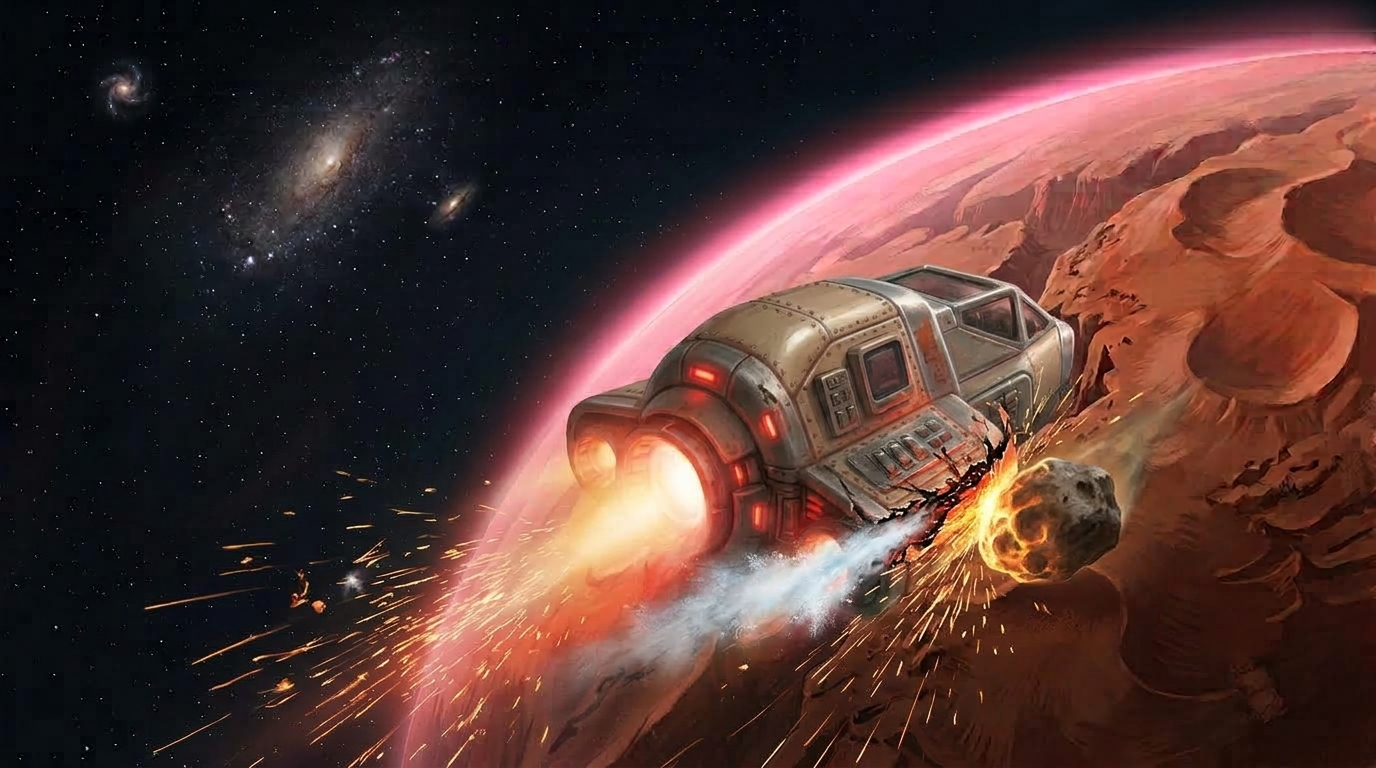
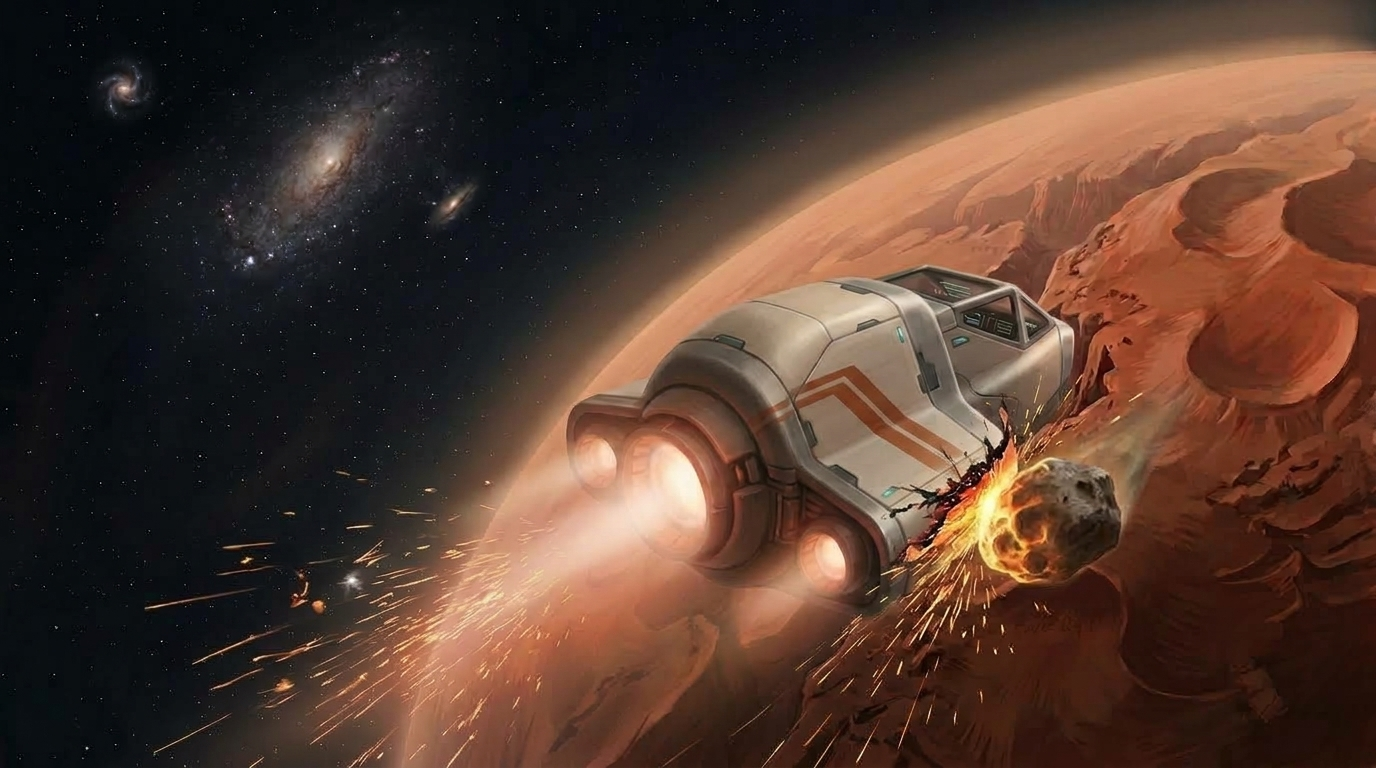
Neue Bilder im Stil von 2073 und Danach-Bilder eingebunden
- Umgestylte Intro-, Raum- und Outro-Bilder
- Danach-Bilder für Flur und Crew-Quartier, Dateinamen in rooms.csv angepasst
- Klickflächen von Spind, Wandfach, Tür und Kabelpanel vergrößert, damit
  aufschwingende Teile im Danach-Bild nicht abgeschnitten werden
- Test: alle Raumbilder existieren mit exakt diesem Dateinamen
- Bildname "Outro out of oxygen.jpeg" auch in Git klein geschrieben

Changed region(s): [[0.1875, 0.0, 1.0, 1.0], [0.8125, 0.6875, 0.8438, 0.7188], [0.7812, 0.7188, 0.8125, 0.75]]

diff --git a/tests/test_logic.py b/tests/test_logic.py
@@ -217,3 +217,11 @@ def test_hotspot_changes_follow_player_state(world):
     changed = {h["id"] for h in world["hotspots"] if logic.is_hotspot_changed(world, player, h)}
     assert changed == {"wandfach", "spind", "tuer_crew"}   # Schraubenzieher liegt noch da
     assert not logic.is_hotspot_changed(world, player, spots["fenster"])
+
+
+def test_room_images_exist_with_exact_names(world):
+    """Dateinamen müssen exakt stimmen – auch Groß-/Kleinschreibung (der Mac verzeiht das, Linux nicht)."""
+    files = {path.name for path in (db.DATA_DIR.parent / "images").iterdir()}
+    for room in world["rooms"].values():
+        for key in ("image", "image_after"):
+            assert not room[key] or room[key] in files, f"{room['id']}: {room[key]} fehlt in images/"

diff --git a/PROMPTS.md b/PROMPTS.md
@@ -8,17 +8,31 @@ Die Prompts sind auf Englisch, weil Bildgeneratoren damit zuverlässiger arbeite
 
 ## So gehst du vor
 
-1. Öffne in Gemini einen neuen Chat und **lade das Originalbild hoch** (z. B. `images/Flur.jpeg`).
+1. Öffne in Gemini **für jedes Bild einen neuen Chat** und **lade das Originalbild hoch** (z. B. `images/Intro 2.jpeg`).
+   Kein „Same style as the previous image“: Gemini übernimmt dabei sonst auch Inhalte aus dem vorherigen Bild,
+   z. B. ein zweites Raumschiff. Der einheitliche Stil kommt allein vom gleichen Umstyle-Prompt.
 2. Schreib den **Umstyle-Prompt** unten und hänge den Teil für dieses Bild an.
-3. Speichere das Ergebnis **unter genau demselben Dateinamen** in `images/` und ersetze damit das alte Bild.
-4. Mach alle Bilder im selben Chat. Ab dem zweiten Bild schreibst du dazu: *„Same style as the previous image.“*
+3. **Vergleiche das Ergebnis mit dem Original:** gleiche Anzahl Objekte, gleiche Positionen?
+   Wenn nicht, im selben Chat nachschieben: *„Wrong: you added/moved objects. Use only my uploaded image as the base. Keep exactly the same objects – nothing added, nothing removed – and only change the style.“*
+4. Speichere das Ergebnis **unter genau demselben Dateinamen** in `images/` und ersetze damit das alte Bild.
 5. Schick mir danach die neuen Raumbilder (Flur, Crew Cabin, Laboratory). Ich prüfe, ob die Klickflächen noch sitzen.
 
-Verschiebt Gemini Objekte, hilft der Zusatz: *„Do not move, add or remove any objects.“*
+## Das Schiff muss überall gleich aussehen
+
+Das Schiff kommt in fünf Bildern vor: Intro 2, Intro 3, Outro 1, Outro 2 und Outro saved.
+Damit es überall identisch ist:
+
+1. **Mach `Intro 2.jpeg` zuerst.** Das fertige Bild ist ab dann die **Vorlage für das Schiff**.
+2. Bei Intro 3, Outro 1, Outro 2 und Outro saved lädst du **zwei Bilder** hoch:
+   - **Bild 1:** das Originalbild, das umgestylt werden soll
+   - **Bild 2:** dein fertiges neues `Intro 2.jpeg` als Vorlage für das Schiff
+3. In jedem dieser Prompts steht außerdem dieselbe feste Schiffsbeschreibung (Form, Farben, Streifen, Triebwerke).
+4. Vergleich das Schiff mit der Vorlage. Weicht es ab, im selben Chat nachschieben:
+   *„The ship does not match image 2. Make it identical to the ship in image 2 – same shape, colors, stripes, cockpit and engines.“*
 
 ## Umstyle-Prompt (bei jedem Bild verwenden)
 
-> Restyle this exact image. Keep the composition, camera angle, framing and every object in exactly the same position and size. Only change the visual style: futuristic sci-fi of the year 2073 in the style of No Man's Sky. Replace retro elements (rivets, CRT monitors, chunky toggle switches, beige riveted metal) with sleek, smooth composite surfaces, seamless rounded panels, slim glowing holographic displays and thin light strips. Muted, dusty color palette of rust red, ochre and burnt orange with small desaturated teal accents; no bright pink or neon colors. Hazy atmosphere, soft volumetric light, painterly concept-art rendering. No text, no letters, no watermark.
+> Restyle this exact uploaded image – use only this image as the base. Keep the composition, camera angle, framing and every object in exactly the same position and size. Do not add, duplicate or remove anything: the result must contain exactly the same objects as the uploaded image. Only change the visual style: futuristic sci-fi of the year 2073 in the style of No Man's Sky. Replace retro elements (rivets, CRT monitors, chunky toggle switches, beige riveted metal) with sleek, smooth composite surfaces, seamless rounded panels, slim glowing displays and thin light strips. Holographic displays exist only inside the ship, built into its consoles and walls – never outside: no holograms, floating screens, HUD overlays or interface graphics in space, in the sky, on the planet or on the outer hull. Muted, dusty color palette of rust red, ochre and burnt orange with small desaturated teal accents; no bright pink or neon colors. Hazy atmosphere, soft volumetric light, painterly concept-art rendering. No text, no letters, no watermark.
 
 ---
 
@@ -28,19 +42,19 @@ Verschiebt Gemini Objekte, hilft der Zusatz: *„Do not move, add or remove any 
 > Keep: the cockpit interior with its three large front windows, the consoles in front and on the sides, and the pilot seat on the right. Through the windows the red planet with canyons and dunes, seen from high orbit. Turn the consoles into sleek 2073 controls with holographic screens. Remove the small creatures on the dunes.
 
 **`Intro 2.jpeg`**: Das Schiff fliegt auf den Planeten zu
-> Keep: the spaceship in the center seen from behind, flying toward the planet, three glowing engines on the left side, the curved red planet filling the right half, black space with stars and distant galaxies on the left. Make the ship a sleek 2073 design with a smooth hull, no rivets and no old screens, keeping its shape and position. Turn the bright pink atmosphere glow into a thin dusty orange haze.
+> The image contains exactly ONE spaceship – keep it as the only ship, do not add a second one. Keep: this single ship in the center seen from behind, flying toward the planet, with its three glowing engines on the left side; the curved red planet filling the right half; black space with stars and distant galaxies on the left. Restyle this same ship in place, keeping its silhouette, size and position, to match this exact design: a compact, rounded shuttle built in 2073 with a smooth matte off-white composite hull, two rust-orange stripes along each side, dark grey seamless panel joints, a tinted dark cockpit canopy at the front, and three round engines at the rear – one large in the middle, two smaller ones beside it – glowing pale orange-white. No rivets, no screens, no markings or text on the hull. Turn the bright pink atmosphere glow into a thin dusty orange haze.
 
 **`Intro 3.jpeg`**: Der Meteorit streift das Schiff
-> Keep: the same spaceship and planet as before, the meteorite on the right scraping along the side of the hull, the torn gash with orange sparks flying to the left and the white plume of escaping air. Make the ship the same sleek 2073 design as in the previous image. Turn the bright pink atmosphere glow into a thin dusty orange haze.
+> The image contains exactly ONE spaceship and ONE meteorite – do not add any other ships or rocks. Keep: this single ship in the center seen from behind with its three glowing engines, the meteorite on the right scraping along the side of the hull, the torn gash with orange sparks flying to the left, the white plume of escaping air, and the curved red planet on the right. Restyle this same ship in place, keeping its silhouette, size and position, to match this exact design: a compact, rounded shuttle built in 2073 with a smooth matte off-white composite hull, two rust-orange stripes along each side, dark grey seamless panel joints, a tinted dark cockpit canopy at the front, and three round engines at the rear – one large in the middle, two smaller ones beside it – glowing pale orange-white. No rivets, no screens, no markings or text on the hull. Image 2 is the reference for the ship: the ship must look exactly like the ship in image 2 – same hull shape, colors, stripes, cockpit and engines. Take only the ship's appearance from image 2, nothing else. Turn the bright pink atmosphere glow into a thin dusty orange haze.
 
 ---
 
 ## Räume (mit Klickflächen – Positionen auf keinen Fall verändern)
 
-**`Flur.jpeg`**: Flur
+**`Flur before.jpeg`**: Flur
 > Keep exactly in place: the large window in the upper center with the red planet, the tall locker with the small keypad on the left, the red fire extinguisher on the far left wall, the cylindrical tank below the window with the small wall compartment and latch on its right side, the screwdriver on the floor below the window, the broken sliding door on the right with the sparking control panel, and the red emergency lights on the ceiling.
 
-**`Crew Cabin.jpeg`**: Crew-Quartier
+**`Cabin Crew before.jpeg`**: Crew-Quartier
 > Keep exactly in place: the open door on the left, the framed crew photo on the wall, the bunk bed with the paper note pinned to it, the diary on the small shelf below the bed, the open wall panel in the center with four numbered sockets and the red, yellow, green and blue cables, the round porthole with the red planet, the coffee machine on the small table, the knocked-over mug on the floor, and the locked bulkhead on the right with the red glowing card reader.
 
 **`Laboratory.jpeg`**: Labor mit Generator
@@ -48,24 +62,51 @@ Verschiebt Gemini Objekte, hilft der Zusatz: *„Do not move, add or remove any 
 
 ---
 
-## Outro und Enden
+## Danach-Bilder (veränderte Räume)
 
-**`Outro 1.jpeg`**: Eintritt in die Atmosphäre
-> Keep: the spaceship in the center wrapped in flames as it enters the atmosphere, the fiery trail behind it, the red desert with canyons below and the dark sky above. Make the ship the same sleek 2073 design as in the intro.
+Pro Raum gibt es ein zweites Bild, auf dem **alle Veränderungen auf einmal** zu sehen sind.
+Das Spiel blendet daraus nur die Stelle ein, die sich gerade verändert hat (z. B. nur den offenen Spind).
+Einzelbilder pro Zustand brauchst du nicht. Für das Labor gibt es kein Danach-Bild.
 
-**`Outro 2.jpeg`**: Das Schiff über dem Planeten
-> Keep: the spaceship on the left seen from behind with its three glowing engines, the curved red planet with canyons on the right, black space with stars. Make the ship the same sleek 2073 design as in the intro. Turn the bright pink atmosphere glow into a thin dusty orange haze.
+**Reihenfolge:** Erst das Grundbild umstylen (oben). Dann **genau dieses neue Grundbild** in einem neuen Chat hochladen
+und mit dem Prompt unten bearbeiten lassen. Nur so passen beide Bilder pixelgenau übereinander.
+Speichere das Ergebnis unter dem angegebenen Dateinamen in `images/`, in gleicher Größe wie das Grundbild.
 
-**`Outro saved.jpeg`**: Endbildschirm „Saved“
-> Keep: the landed spaceship on its legs in the center right, the tall rock spires on the left, the sunset sky with two small moons, the red desert in the foreground. Make the ship the same sleek 2073 design as in the intro. Optional: remove the small creatures in the foreground.
+Hat sich außer den genannten Objekten etwas verändert, im selben Chat nachschieben:
+*„The rest of the image must stay pixel-identical. Do not move, add or remove anything else.“*
 
-**`Outro Out of oxygen.jpeg`**: Endbildschirm „Out of Air“
-> Keep: the dark corridor in central perspective, the frosted windows on both sides with ice, the red ceiling light, the window at the end with the planet, the two small warning screens on the left wall showing a flat oxygen line and a warning sign. Turn the screens into slim holographic displays.
+### `Flur after.jpeg`
+
+*(Grundbild `Flur before.jpeg` hochladen)*
+
+> Edit this image. Change ONLY the following four things and keep everything else exactly the same – same camera angle, framing, lighting, colors, style and every other object in the same position:
+> 1. The small wall compartment on the right side of the cylindrical tank below the window: its hatch is now open, the compartment inside is empty.
+> 2. The screwdriver on the floor below the window is gone; the floor there is empty.
+> 3. The tall locker on the left: its door is now swung open and the locker is empty inside; the small keypad on it glows green.
+> 4. The broken sliding door on the far right: it has been forced open with a crowbar, now wide enough to walk through; you can see a dimly lit room behind it. The sparking control panel next to it stays.
+> No text, no letters, no watermark.
+
+### `Cabin crew after.jpeg`
+
+*(Grundbild `Cabin Crew before.jpeg` hochladen)*
+
+> Edit this image. Change ONLY the following two things and keep everything else exactly the same – same camera angle, framing, lighting, colors, style and every other object in the same position:
+> 1. The open electrical wall panel in the center: the four cables are now plugged in – red into socket 1, yellow into socket 2, green into socket 3, blue into socket 4 – and a small compartment in the panel below the sockets is open and empty.
+> 2. The heavy security bulkhead on the far right: it has slid open, and you can see a softly lit laboratory behind it; the card reader next to it glows green.
+> No text, no letters, no watermark.
 
 ---
 
-## Wenn ein Item noch im Bild zu sehen ist, obwohl man es schon genommen hat
+## Outro und Enden
 
-Im Flur sieht man den Schraubenzieher am Boden auch dann noch, wenn er schon im Inventar ist. Nur seine Markierung verschwindet. Dafür gibt es zwei Lösungen:
-- Er bleibt im Bild. Klickt man ihn noch einmal an, erscheint „This is where the screwdriver was.“ Das ist schon eingebaut.
-- Du erzeugst zusätzlich eine Version des Flur-Bildes ohne Schraubenzieher. Dann kann das Spiel je nach Inventar das passende Bild zeigen. Das können wir später einbauen.
+**`Outro 1.jpeg`**: Eintritt in die Atmosphäre
+> The image contains exactly ONE spaceship – do not add another. Keep: this single ship in the center wrapped in flames as it enters the atmosphere, the fiery trail behind it, the red desert with canyons below and the dark sky above. Restyle this same ship in place, keeping its silhouette, size and position, to match this exact design: a compact, rounded shuttle built in 2073 with a smooth matte off-white composite hull, two rust-orange stripes along each side, dark grey seamless panel joints, a tinted dark cockpit canopy at the front, and three round engines at the rear – one large in the middle, two smaller ones beside it – glowing pale orange-white. No rivets, no screens, no markings or text on the hull. Image 2 is the reference for the ship: the ship must look exactly like the ship in image 2 – same hull shape, colors, stripes, cockpit and engines. Take only the ship's appearance from image 2, nothing else.
+
+**`Outro 2.jpeg`**: Das Schiff über dem Planeten
+> The image contains exactly ONE spaceship – do not add another. Keep: this single ship on the left seen from behind with its three glowing engines, the curved red planet with canyons on the right, black space with stars. Restyle this same ship in place, keeping its silhouette, size and position, to match this exact design: a compact, rounded shuttle built in 2073 with a smooth matte off-white composite hull, two rust-orange stripes along each side, dark grey seamless panel joints, a tinted dark cockpit canopy at the front, and three round engines at the rear – one large in the middle, two smaller ones beside it – glowing pale orange-white. No rivets, no screens, no markings or text on the hull. Image 2 is the reference for the ship: the ship must look exactly like the ship in image 2 – same hull shape, colors, stripes, cockpit and engines. Take only the ship's appearance from image 2, nothing else. Turn the bright pink atmosphere glow into a thin dusty orange haze.
+
+**`Outro saved.jpeg`**: Endbildschirm „Saved“
+> The image contains exactly ONE spaceship – do not add another. Keep: this single landed ship on its legs in the center right, the tall rock spires on the left, the sunset sky with two small moons, the red desert in the foreground. Restyle this same ship in place, keeping its silhouette, size and position, to match this exact design: a compact, rounded shuttle built in 2073 with a smooth matte off-white composite hull, two rust-orange stripes along each side, dark grey seamless panel joints, a tinted dark cockpit canopy at the front, and three round engines at the rear – one large in the middle, two smaller ones beside it – glowing pale orange-white. No rivets, no screens, no markings or text on the hull. Image 2 is the reference for the ship: the ship must look exactly like the ship in image 2 – same hull shape, colors, stripes, cockpit and engines. Take only the ship's appearance from image 2, nothing else. Optional: remove the small creatures in the foreground.
+
+**`Outro out of oxygen.jpeg`**: Endbildschirm „Out of Air“
+> Keep: the dark corridor in central perspective, the frosted windows on both sides with ice, the red ceiling light, the window at the end with the planet, the two small warning screens on the left wall showing a flat oxygen line and a warning sign. Turn the screens into slim holographic displays.

diff --git a/ADAPTIVE_BILDER.md b/ADAPTIVE_BILDER.md
@@ -8,8 +8,8 @@ Das Spiel nimmt aus dem Danach-Bild nur den Bereich des Objekts, das sich gerade
 
 | Raum | Grundbild (gibt es schon) | Neues Danach-Bild |
 |---|---|---|
-| Flur | `Flur.jpeg` | **`Flur after.jpeg`** |
-| Crew-Quartier | `Crew Cabin.jpeg` | **`Crew Cabin after.jpeg`** |
+| Flur | `Flur before.jpeg` | **`Flur after.jpeg`** |
+| Crew-Quartier | `Cabin Crew before.jpeg` | **`Cabin crew after.jpeg`** |
 | Labor | `Laboratory.jpeg` | nicht nötig: Sobald der Generator repariert ist, beginnt das Outro |
 
 Du musst also nur **2 Bilder** erzeugen.
@@ -38,25 +38,9 @@ Du musst also nur **2 Bilder** erzeugen.
 
 ---
 
-## Prompt: `Flur after.jpeg`
+## Prompts
 
-*(Grundbild `Flur.jpeg` hochladen)*
-
-> Edit this image. Change ONLY the following four things and keep everything else exactly the same – same camera angle, framing, lighting, colors, style and every other object in the same position:
-> 1. The small wall compartment on the right side of the cylindrical tank below the window: its hatch is now open, the compartment inside is empty.
-> 2. The screwdriver on the floor below the window is gone; the floor there is empty.
-> 3. The tall locker on the left: its door is now swung open and the locker is empty inside; the small keypad on it glows green.
-> 4. The broken sliding door on the far right: it has been forced open with a crowbar, now wide enough to walk through; you can see a dimly lit room behind it. The sparking control panel next to it stays.
-> No text, no letters, no watermark.
-
-## Prompt: `Crew Cabin after.jpeg`
-
-*(Grundbild `Crew Cabin.jpeg` hochladen)*
-
-> Edit this image. Change ONLY the following two things and keep everything else exactly the same – same camera angle, framing, lighting, colors, style and every other object in the same position:
-> 1. The open electrical wall panel in the center: the four cables are now plugged in – red into socket 1, yellow into socket 2, green into socket 3, blue into socket 4 – and a small compartment in the panel below the sockets is open and empty.
-> 2. The heavy security bulkhead on the far right: it has slid open, and you can see a softly lit laboratory behind it; the card reader next to it glows green.
-> No text, no letters, no watermark.
+Die beiden Prompts stehen in [PROMPTS.md](PROMPTS.md) im Abschnitt „Danach-Bilder“.
 
 ---
 
